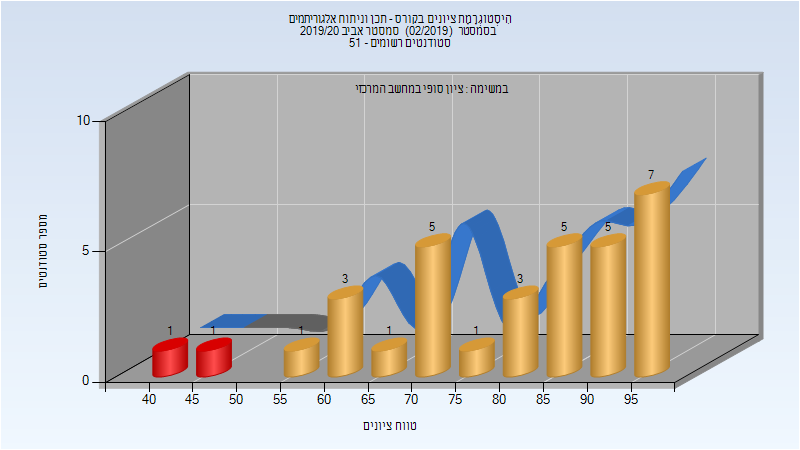
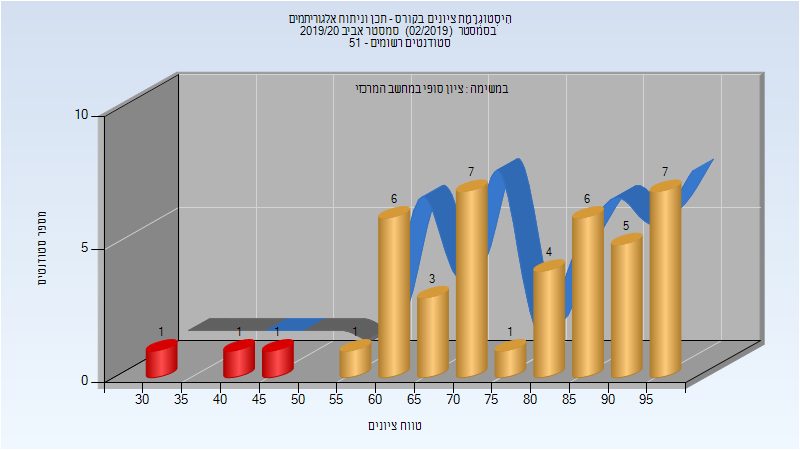
Deploy michael-maltsev/technion-histograms to github.com/michael-maltsev/technion-histograms.git:gh-pages

diff --git a/046002/index.html b/046002/index.html
@@ -637,6 +637,58 @@
 </tr>
 </tbody>
 </table>
+<h3>מבחן מועד ב'</h3>
+<p><img src="201902/Exam_B.png" alt="201902 Exam_B" /></p>
+<table>
+<thead>
+<tr>
+<th>סטודנטים</th>
+<th>עברו/נכשלו</th>
+<th>אחוז עוברים</th>
+<th>ציון מינימלי</th>
+<th>ציון מקסימלי</th>
+<th>ממוצע</th>
+<th>חציון</th>
+</tr>
+</thead>
+<tbody>
+<tr>
+<td>12</td>
+<td>4/8</td>
+<td>33</td>
+<td>24</td>
+<td>77</td>
+<td>49.833</td>
+<td>49</td>
+</tr>
+</tbody>
+</table>
+<h3>סופי מועד ב'</h3>
+<p><img src="201902/Final_B.png" alt="201902 Final_B" /></p>
+<table>
+<thead>
+<tr>
+<th>סטודנטים</th>
+<th>עברו/נכשלו</th>
+<th>אחוז עוברים</th>
+<th>ציון מינימלי</th>
+<th>ציון מקסימלי</th>
+<th>ממוצע</th>
+<th>חציון</th>
+</tr>
+</thead>
+<tbody>
+<tr>
+<td>12</td>
+<td>9/3</td>
+<td>75</td>
+<td>34</td>
+<td>89</td>
+<td>63.333</td>
+<td>64.5</td>
+</tr>
+</tbody>
+</table>
 <h3>סופי</h3>
 <p><img src="201902/Finals.png" alt="201902 Finals" /></p>
 <table>
@@ -653,13 +705,13 @@
 </thead>
 <tbody>
 <tr>
-<td>33</td>
-<td>31/2</td>
-<td>94</td>
-<td>44</td>
+<td>43</td>
+<td>40/3</td>
+<td>93</td>
+<td>34</td>
 <td>99</td>
-<td>80.485</td>
-<td>85</td>
+<td>77.349</td>
+<td>78</td>
 </tr>
 </tbody>
 </table>

diff --git a/104223/index.html b/104223/index.html
@@ -2282,7 +2282,7 @@
 <td>58</td>
 <td>9</td>
 <td>99</td>
-<td>57.392</td>
+<td>57.505</td>
 <td>57</td>
 </tr>
 </tbody>
@@ -2308,8 +2308,8 @@
 <td>78</td>
 <td>15</td>
 <td>100</td>
-<td>64.691</td>
-<td>66</td>
+<td>64.794</td>
+<td>65</td>
 </tr>
 </tbody>
 </table>

diff --git a/046002/README.md b/046002/README.md
@@ -196,11 +196,27 @@
 | ---- | ---- | ---- | ---- | ---- | ---- | ---- |
 | 33 | 31/2 | 94 | 44 | 99 | 80.576 | 85 |
 
+### מבחן מועד ב'
+
+![201902 Exam_B](201902/Exam_B.png)
+
+| סטודנטים | עברו/נכשלו | אחוז עוברים | ציון מינימלי | ציון מקסימלי | ממוצע | חציון |
+| ---- | ---- | ---- | ---- | ---- | ---- | ---- |
+| 12 | 4/8 | 33 | 24 | 77 | 49.833 | 49 |
+
+### סופי מועד ב'
+
+![201902 Final_B](201902/Final_B.png)
+
+| סטודנטים | עברו/נכשלו | אחוז עוברים | ציון מינימלי | ציון מקסימלי | ממוצע | חציון |
+| ---- | ---- | ---- | ---- | ---- | ---- | ---- |
+| 12 | 9/3 | 75 | 34 | 89 | 63.333 | 64.5 |
+
 ### סופי
 
 ![201902 Finals](201902/Finals.png)
 
 | סטודנטים | עברו/נכשלו | אחוז עוברים | ציון מינימלי | ציון מקסימלי | ממוצע | חציון |
 | ---- | ---- | ---- | ---- | ---- | ---- | ---- |
-| 33 | 31/2 | 94 | 44 | 99 | 80.485 | 85 |
+| 43 | 40/3 | 93 | 34 | 99 | 77.349 | 78 |
 

diff --git a/104223/README.md b/104223/README.md
@@ -716,7 +716,7 @@
 
 | סטודנטים | עברו/נכשלו | אחוז עוברים | ציון מינימלי | ציון מקסימלי | ממוצע | חציון |
 | ---- | ---- | ---- | ---- | ---- | ---- | ---- |
-| 97 | 56/41 | 58 | 9 | 99 | 57.392 | 57 |
+| 97 | 56/41 | 58 | 9 | 99 | 57.505 | 57 |
 
 ### סופי מועד ב'
 
@@ -724,7 +724,7 @@
 
 | סטודנטים | עברו/נכשלו | אחוז עוברים | ציון מינימלי | ציון מקסימלי | ממוצע | חציון |
 | ---- | ---- | ---- | ---- | ---- | ---- | ---- |
-| 97 | 76/21 | 78 | 15 | 100 | 64.691 | 66 |
+| 97 | 76/21 | 78 | 15 | 100 | 64.794 | 65 |
 
 ### סופי
 
